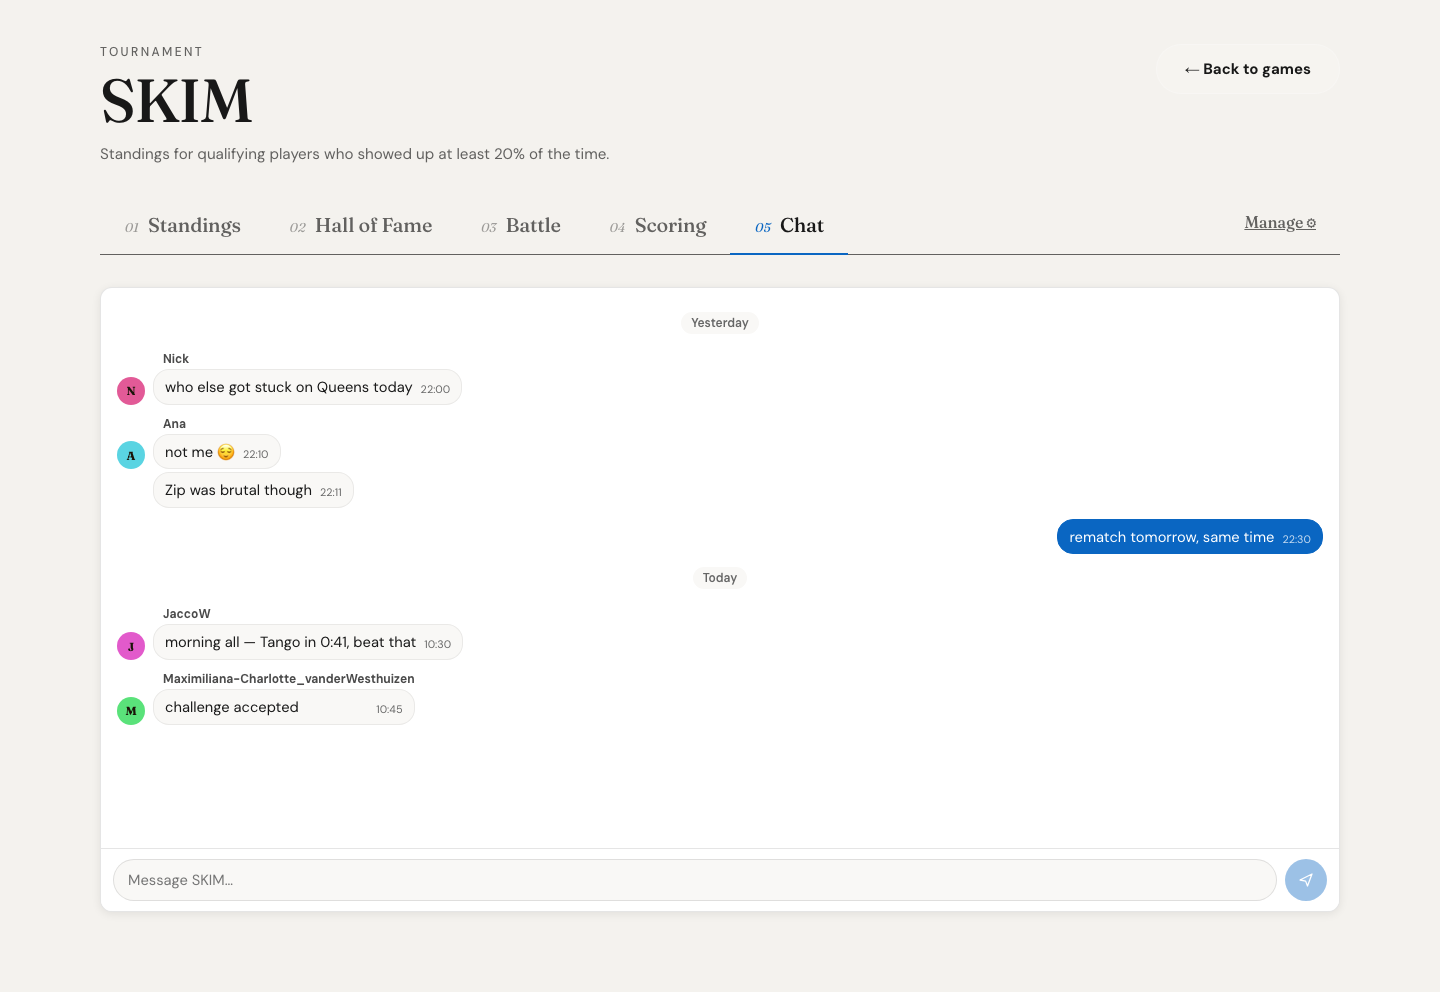
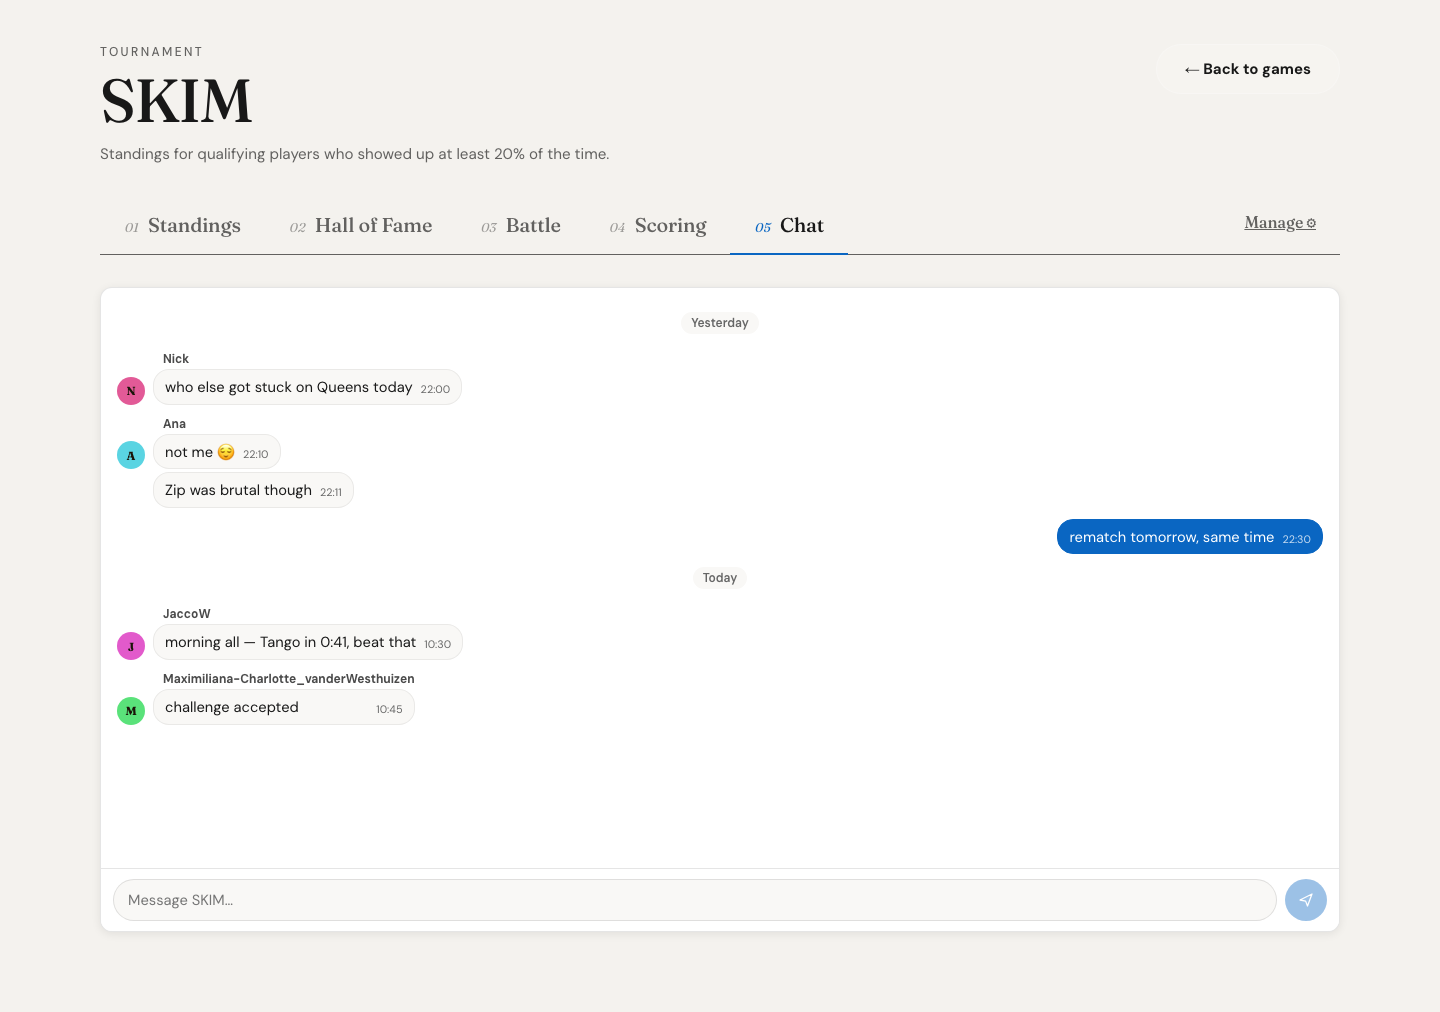
Chat: fit the screen, message box always in view
The message list fills the room from where the chat starts down to the
bottom of the screen (re-measured on resize and once fonts load), and
stays scrolled to the newest message as names load and long ones wrap.
The suite now checks the box is on screen, with real-size screenshots.

diff --git a/components/TournamentChat.jsx b/components/TournamentChat.jsx
@@ -2,7 +2,7 @@
 // A tournament's chat, for its members. Your own messages on the right;
 // everyone else's on the left with their name, once per run of messages.
 // You can delete your own, and the tournament's owner can delete any.
-import { useState, useRef, useLayoutEffect, Fragment } from 'react';
+import { useState, useRef, useLayoutEffect, useEffect, Fragment } from 'react';
 import { useAuth } from '../lib/useAuth';
 import { useTournamentChat, MESSAGE_MAX } from '../lib/useTournamentChat';
 import { Avatar, useNames } from './FeedPost';
@@ -27,7 +27,31 @@ export default function TournamentChat({ tournament }) {
   const [draft, setDraft] = useState('');
   const [busy, setBusy] = useState(false);
   const listRef = useRef(null);
+  const formRef = useRef(null);
   const stickToBottom = useRef(true);
+  const [listHeight, setListHeight] = useState(null);
+
+  // The chat fills the screen from where it starts down to the bottom, so
+  // the message box is always in view — however tall the tournament's
+  // header above it is. Never shorter than a few messages, though.
+  useEffect(() => {
+    const measure = () => {
+      const list = listRef.current;
+      const form = formRef.current;
+      if (!list || !form) return;
+      const top = list.getBoundingClientRect().top + window.scrollY;
+      const viewport = window.visualViewport?.height || window.innerHeight;
+      setListHeight(Math.max(240, Math.floor(viewport - top - form.offsetHeight - 24)));
+    };
+    measure();
+    document.fonts?.ready.then(measure); // the header's height settles once its fonts load
+    window.addEventListener('resize', measure);
+    window.visualViewport?.addEventListener('resize', measure);
+    return () => {
+      window.removeEventListener('resize', measure);
+      window.visualViewport?.removeEventListener('resize', measure);
+    };
+  }, []);
   const isOwner = tournament.ownerId === user?.uid;
 
   // Stay at the newest message as they arrive — unless you've scrolled up
@@ -35,7 +59,8 @@ export default function TournamentChat({ tournament }) {
   useLayoutEffect(() => {
     const el = listRef.current;
     if (el && stickToBottom.current) el.scrollTop = el.scrollHeight;
-  }, [messages]);
+    // Names arrive after the messages, and a long one wraps — re-pin then too.
+  }, [messages, listHeight, names]);
   function onScroll() {
     const el = listRef.current;
     stickToBottom.current = el.scrollHeight - el.scrollTop - el.clientHeight < 40;
@@ -59,7 +84,7 @@ export default function TournamentChat({ tournament }) {
 
   return (
     <section className="chat" aria-label={`${tournament.name} chat`}>
-      <div className="chat-list" ref={listRef} onScroll={onScroll}>
+      <div className="chat-list" ref={listRef} onScroll={onScroll} style={listHeight ? { height: listHeight } : undefined}>
         {messages === null ? (
           <Skeleton variant="rows" count={3} />
         ) : messages.length === 0 ? (
@@ -95,7 +120,7 @@ export default function TournamentChat({ tournament }) {
         )}
       </div>
 
-      <form className="chat-form" onSubmit={onSubmit}>
+      <form className="chat-form" onSubmit={onSubmit} ref={formRef}>
         <input
           className="chat-input"
           value={draft}

diff --git a/styles/globals.css b/styles/globals.css
@@ -3127,7 +3127,8 @@ html[data-theme="overall"] { --ed-bg:#f4f2ee; --ed-bg-soft:#f4f2ee; --ed-text:rg
   overflow: hidden;
 }
 .chat-list {
-  height: min(60vh, 560px);
+  /* Until TournamentChat measures the room it has: */
+  height: min(55vh, 520px);
   overflow-y: auto;
   overscroll-behavior: contain;
   padding: 14px 16px 10px;
